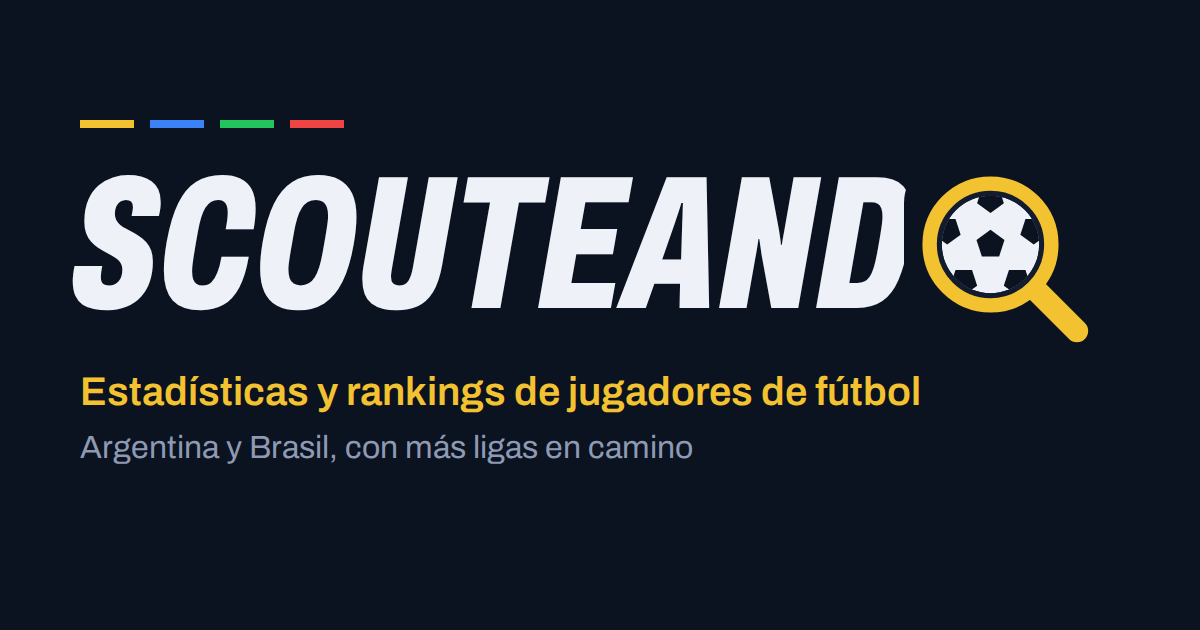
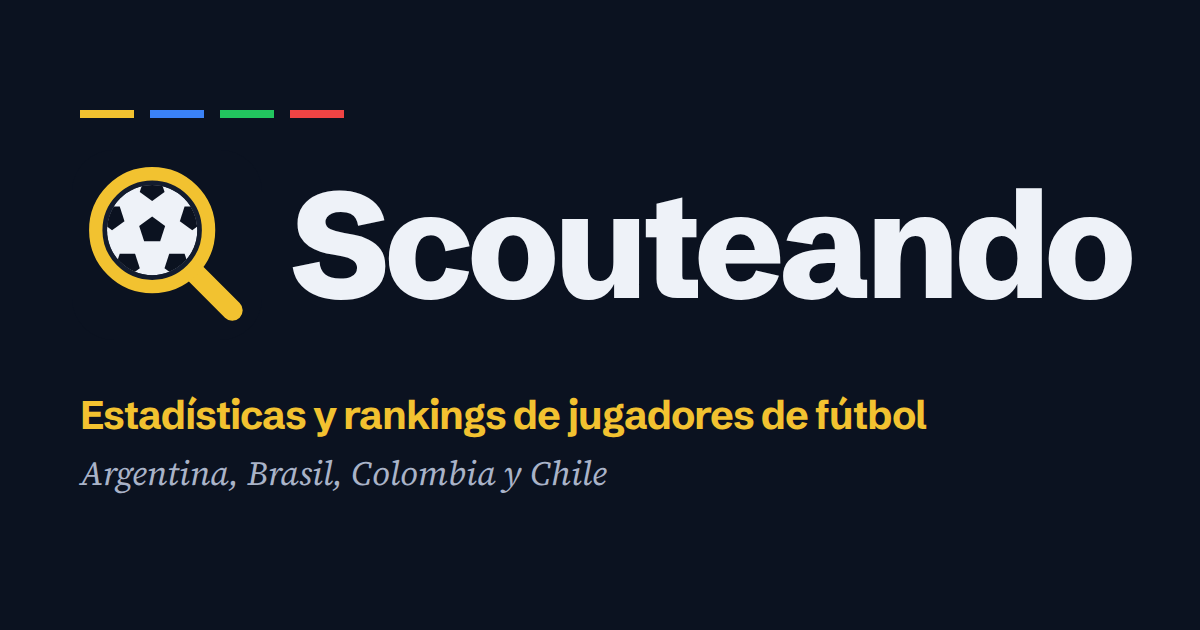
Tipografía estilo diario deportivo: Schibsted Grotesk + Source Serif 4 itálica, sin mayúsculas ni itálica forzadas
Claude-Session: https://claude.ai/code/session_01X9n3VzNKimX2K5r9hQWrKL

Changed region(s): [[0.0617, 0.2413, 0.9558, 0.5429], [0.0617, 0.6032, 0.7708, 0.7841], [0.0617, 0.1508, 0.3083, 0.2111]]

diff --git a/estilos.css b/estilos.css
@@ -13,8 +13,9 @@
   --med: #10b981;
   --del: #ef4444;
 
-  --fuente-titulo: "Archivo", "Arial Narrow", sans-serif;
-  --fuente-texto: "Archivo", Arial, sans-serif;
+  --fuente-titulo: "Schibsted Grotesk", "Helvetica Neue", Arial, sans-serif;
+  --fuente-serif: "Source Serif 4", Georgia, serif;
+  --fuente-texto: "Schibsted Grotesk", "Helvetica Neue", Arial, sans-serif;
 }
 
 * {
@@ -37,7 +38,7 @@ body {
 }
 
 .cabecera h1 {
-  font-family: var(--fuente-titulo); font-stretch: 62%; font-style: italic;
+  font-family: var(--fuente-titulo);
   font-size: 64px;
   font-weight: 800;
   letter-spacing: 0;
@@ -170,7 +171,7 @@ body {
 }
 
 .carta__rating {
-  font-family: var(--fuente-titulo); font-stretch: 62%; font-weight: 800; font-style: italic;
+  font-family: var(--fuente-titulo); font-weight: 800;
   font-size: 52px;
   line-height: 0.9;
   color: var(--color);
@@ -196,7 +197,7 @@ body {
   border: 2px solid var(--color);
   display: grid;
   place-items: center;
-  font-family: var(--fuente-titulo); font-stretch: 62%; font-weight: 800; font-style: italic;
+  font-family: var(--fuente-titulo); font-weight: 800;
   font-size: 24px;
   color: var(--texto);
   background: #1b2740;
@@ -213,7 +214,7 @@ body {
 }
 
 .carta__nombre {
-  font-family: var(--fuente-titulo); font-stretch: 62%; font-style: italic;
+  font-family: var(--fuente-titulo);
   font-weight: 800;
   font-size: 30px;
   letter-spacing: 0;
@@ -249,7 +250,7 @@ body {
 
 .stat__valor {
   display: block;
-  font-family: var(--fuente-titulo); font-stretch: 62%; font-weight: 800; font-style: italic;
+  font-family: var(--fuente-titulo); font-weight: 800;
   font-size: 28px;
   line-height: 1;
 }
@@ -258,7 +259,6 @@ body {
   display: block;
   font-size: 11px;
   color: var(--texto-suave);
-  text-transform: uppercase;
   letter-spacing: 0.5px;
   margin-top: 4px;
 }
@@ -372,7 +372,6 @@ body {
   display: block;
   font-size: 11px;
   color: var(--texto-suave);
-  text-transform: uppercase;
   letter-spacing: 0.5px;
   margin-top: 4px;
   max-width: 120px;
@@ -387,7 +386,7 @@ body {
 /* Título de cada grupo de puesto dentro del plantel */
 .grupo {
   grid-column: 1 / -1;
-  font-family: var(--fuente-titulo); font-stretch: 62%; font-style: italic;
+  font-family: var(--fuente-titulo);
   font-weight: 800;
   font-size: 28px;
   letter-spacing: 0;
@@ -463,7 +462,7 @@ body {
 .ficha__cabecera .carta__nombre { margin-top: 0; }
 
 .ficha__nombre {
-  font-family: var(--fuente-titulo); font-stretch: 62%; font-style: italic;
+  font-family: var(--fuente-titulo);
   font-weight: 800;
   font-size: 40px;
   letter-spacing: 0;
@@ -487,7 +486,7 @@ body {
 }
 .cuadro__valor {
   display: block;
-  font-family: var(--fuente-titulo); font-stretch: 62%; font-weight: 800; font-style: italic;
+  font-family: var(--fuente-titulo); font-weight: 800;
   font-size: 34px;
   line-height: 1;
 }
@@ -495,14 +494,12 @@ body {
   display: block;
   font-size: 11px;
   color: var(--texto-suave);
-  text-transform: uppercase;
   letter-spacing: 0.5px;
   margin-top: 4px;
 }
 
 .ficha__subtitulo {
   font-size: 13px;
-  text-transform: uppercase;
   letter-spacing: 1px;
   color: var(--texto-suave);
   margin: 0 0 12px;
@@ -568,7 +565,7 @@ body {
 }
 
 .tabla-lideres h2 {
-  font-family: var(--fuente-titulo); font-stretch: 62%; font-style: italic;
+  font-family: var(--fuente-titulo);
   font-weight: 800;
   font-size: 26px;
   letter-spacing: 0;
@@ -638,7 +635,7 @@ body {
 }
 
 .lider__valor {
-  font-family: var(--fuente-titulo); font-stretch: 62%; font-weight: 800; font-style: italic;
+  font-family: var(--fuente-titulo); font-weight: 800;
   font-size: 24px;
 }
 
@@ -693,8 +690,8 @@ body {
 .resumen-equipo .lider { grid-template-columns: 44px 1fr; border-bottom: 1px solid var(--borde); }
 .resumen-equipo .lider__foto { width: 44px; height: 44px; }
 .destacado--total { display: flex; flex-direction: column; justify-content: center; }
-.destacado__valor { font-family: var(--fuente-titulo); font-stretch: 62%; font-weight: 800; font-style: italic; font-size: 40px; line-height: 1; color: var(--dorado); }
-.destacado__rol { font-size: 11px; color: var(--texto-suave); text-transform: uppercase; letter-spacing: 0.5px; }
+.destacado__valor { font-family: var(--fuente-titulo); font-weight: 800; font-size: 40px; line-height: 1; color: var(--dorado); }
+.destacado__rol { font-size: 11px; color: var(--texto-suave); letter-spacing: 0.5px; }
 
 .perfil__top small { font-size: 10px; font-weight: 400; color: var(--texto-suave); }
 
@@ -722,23 +719,22 @@ body {
 }
 .liga:hover:not(:disabled) { transform: translateY(-3px); border-color: var(--dorado); }
 .liga__bandera { width: 48px; height: 32px; object-fit: cover; border-radius: 4px; margin-bottom: 10px; }
-.liga__nombre { font-family: var(--fuente-titulo); font-stretch: 62%; font-weight: 800; font-style: italic; font-size: 28px; letter-spacing: 0; line-height: 1.05; }
+.liga__nombre { font-family: var(--fuente-titulo); font-weight: 800; font-size: 28px; letter-spacing: 0; line-height: 1.05; }
 .liga__pais { font-size: 13px; color: var(--texto-suave); }
-.liga__estado { font-size: 11px; color: var(--dorado); margin-top: 8px; text-transform: uppercase; letter-spacing: 0.5px; }
+.liga__estado { font-size: 11px; color: var(--dorado); margin-top: 8px; letter-spacing: 0.5px; }
 .liga--pronto { opacity: 0.45; cursor: default; }
 .liga--pronto .liga__estado { color: var(--texto-suave); }
 
 .perfil__valor small { font-size: 11px; font-weight: 400; color: var(--texto-suave); }
 
-/* ===== Tipografía (Archivo: angosta e itálica en títulos y números, normal en el texto) ===== */
+/* ===== Tamaños de tipografía ===== */
 body { font-size: 15px; -webkit-font-smoothing: antialiased; }
 
 .cabecera h1, .ficha__nombre, .liga__nombre, .equipo__nombre, .grupo, .tabla-lideres h2 {
   font-weight: 700;
   letter-spacing: 0.5px;
-  text-transform: uppercase;
 }
-.cabecera h1 { font-size: clamp(38px, 10vw, 60px); overflow-wrap: anywhere; }
+.cabecera h1 { font-size: clamp(36px, 9vw, 56px); overflow-wrap: anywhere; letter-spacing: -1.5px; line-height: 1.02; }
 
 .carta__nombre {
   font-weight: 600;
@@ -749,14 +745,14 @@ body { font-size: 15px; -webkit-font-smoothing: antialiased; }
 
 /* Números: ancho fijo para que se alineen */
 .carta__rating, .stat__valor, .cuadro__valor, .lider__valor, .destacado__valor, .perfil__valor, .perfil__top {
-  font-family: var(--fuente-titulo); font-stretch: 62%; font-style: italic;
+  font-family: var(--fuente-titulo);
   font-weight: 800;
   font-variant-numeric: tabular-nums;
 }
 .carta__rating { font-size: 54px; }
 .stat__valor { font-size: 26px; }
 .lider__valor { font-size: 26px; }
-.equipo__nombre { font-family: var(--fuente-titulo); font-stretch: 62%; font-weight: 800; font-style: italic; font-size: 17px; }
+.equipo__nombre { font-family: var(--fuente-titulo); font-weight: 800; font-size: 17px; }
 
 .perfil__top { font-size: 20px; line-height: 1; }
 .perfil__top small { font-family: var(--fuente-texto); font-size: 11px; font-weight: 500; color: var(--texto-suave); }
@@ -767,7 +763,6 @@ body { font-size: 15px; -webkit-font-smoothing: antialiased; }
   margin-top: 4px;
   font-size: 10px;
   font-weight: 700;
-  text-transform: uppercase;
   letter-spacing: 0.5px;
   padding: 2px 7px;
   border-radius: 999px;
@@ -800,14 +795,14 @@ body { font-size: 15px; -webkit-font-smoothing: antialiased; }
 .comp__cabeza { display: grid; grid-template-columns: 1fr auto 1fr; align-items: center; gap: 10px; text-align: center; margin: 10px 0 14px; }
 .comp__jugador { display: flex; flex-direction: column; align-items: center; gap: 6px; }
 .comp__jugador .ficha__foto { width: 84px; height: 84px; margin: 0; }
-.comp__jugador h3 { font-family: var(--fuente-titulo); font-stretch: 62%; font-style: italic; font-size: 24px; font-weight: 700; text-transform: uppercase; margin: 0; line-height: 1; }
+.comp__jugador h3 { font-family: var(--fuente-titulo); font-size: 24px; font-weight: 700; margin: 0; line-height: 1; }
 .comp__jugador .carta__info { margin: 0; }
-.comp__vs { font-family: var(--fuente-titulo); font-stretch: 62%; font-style: italic; font-size: 28px; color: var(--dorado); font-weight: 700; }
-.comp__marcador { text-align: center; font-size: 12px; color: var(--texto-suave); margin-bottom: 10px; text-transform: uppercase; letter-spacing: 0.5px; }
-.comp__marcador span { font-family: var(--fuente-titulo); font-stretch: 62%; font-weight: 800; font-style: italic; font-size: 26px; color: var(--texto); margin: 0 10px; vertical-align: middle; }
+.comp__vs { font-family: var(--fuente-titulo); font-size: 28px; color: var(--dorado); font-weight: 700; }
+.comp__marcador { text-align: center; font-size: 12px; color: var(--texto-suave); margin-bottom: 10px; letter-spacing: 0.5px; }
+.comp__marcador span { font-family: var(--fuente-titulo); font-weight: 800; font-size: 26px; color: var(--texto); margin: 0 10px; vertical-align: middle; }
 .comp__fila { display: grid; grid-template-columns: 80px 1fr 80px; align-items: center; padding: 8px 0; border-bottom: 1px solid #1c2740; }
 .comp__nombre { text-align: center; font-size: 13px; color: var(--texto-suave); }
-.comp__valor { font-family: var(--fuente-titulo); font-stretch: 62%; font-style: italic; font-size: 22px; font-weight: 800; text-align: center; font-variant-numeric: tabular-nums; color: var(--texto-suave); }
+.comp__valor { font-family: var(--fuente-titulo); font-size: 22px; font-weight: 800; text-align: center; font-variant-numeric: tabular-nums; color: var(--texto-suave); }
 .comp__valor--mejor { color: #34d399; }
 .comp__volver { margin-top: 12px; }
 #filtrosLideres { gap: 8px; }
@@ -835,13 +830,13 @@ body { font-size: 15px; -webkit-font-smoothing: antialiased; }
 .vista-posiciones > .filtros { margin-bottom: 18px; }
 .posiciones { display: grid; grid-template-columns: repeat(auto-fit, minmax(460px, 1fr)); gap: 18px; }
 .tabla-posiciones { background: var(--superficie); border: 1px solid var(--borde); border-radius: 14px; padding: 14px 16px; overflow-x: auto; }
-.tabla-posiciones h2 { font-family: var(--fuente-titulo); font-stretch: 62%; font-style: italic; font-weight: 700; text-transform: uppercase; color: var(--dorado); font-size: 24px; margin: 0 0 8px; }
+.tabla-posiciones h2 { font-family: var(--fuente-titulo); font-weight: 700; color: var(--dorado); font-size: 24px; margin: 0 0 8px; }
 .tabla-posiciones table { width: 100%; border-collapse: collapse; font-variant-numeric: tabular-nums; }
 .tabla-posiciones th { font-size: 11px; text-transform: uppercase; color: var(--texto-suave); font-weight: 600; padding: 6px 4px; border-bottom: 1px solid var(--borde); text-align: center; }
 .tabla-posiciones td { font-size: 14px; font-weight: 400; padding: 7px 4px; border-bottom: 1px solid #1c2740; text-align: center; }
 .tabla-posiciones th:nth-child(2), .tabla-posiciones td.equipo-celda { text-align: left; }
 .tabla-posiciones td.pos { color: var(--texto-suave); width: 26px; }
-.tabla-posiciones td.pts { font-family: var(--fuente-titulo); font-stretch: 62%; font-style: italic; font-size: 18px; font-weight: 700; }
+.tabla-posiciones td.pts { font-family: var(--fuente-titulo); font-size: 18px; font-weight: 700; }
 .tabla-posiciones .carta__equipo { border-bottom: none; font-weight: 600; }
 .forma { display: inline-block; width: 18px; height: 18px; line-height: 18px; border-radius: 4px; font-size: 10px; font-weight: 700; margin: 0 1px; color: #0b1220; }
 .forma--G { background: #34d399; }
@@ -880,8 +875,8 @@ body { font-size: 15px; -webkit-font-smoothing: antialiased; }
 
 /* ===== Acerca de ===== */
 .pie__link { background: none; border: none; padding: 0; color: var(--dorado); font: inherit; cursor: pointer; text-decoration: underline; }
-.acerca h2 { font-family: var(--fuente-titulo); font-stretch: 62%; font-weight: 800; font-style: italic; font-size: 34px; text-transform: uppercase; margin: 0 0 12px; }
-.acerca h3 { font-family: var(--fuente-titulo); font-stretch: 62%; font-weight: 800; font-style: italic; font-size: 18px; text-transform: uppercase; letter-spacing: 0; color: var(--dorado); margin: 20px 0 6px; }
+.acerca h2 { font-family: var(--fuente-titulo); font-weight: 800; font-size: 34px; margin: 0 0 12px; }
+.acerca h3 { font-family: var(--fuente-titulo); font-weight: 800; font-size: 18px; letter-spacing: 0; color: var(--dorado); margin: 20px 0 6px; }
 .acerca p, .acerca li { line-height: 1.55; color: var(--texto); }
 .acerca ul { padding-left: 18px; margin: 0; }
 .acerca__nota { font-size: 13px; color: var(--texto-suave) !important; margin-top: 18px; }
@@ -892,7 +887,7 @@ body { font-size: 15px; -webkit-font-smoothing: antialiased; }
 .marca .cabecera__liga { margin: 0; }
 
 /* Textos chicos dentro de números grandes: letra normal para que se lean bien */
-.perfil__valor small, .stat__nombre, .lider__nombre small { font-family: var(--fuente-texto); font-style: normal; font-stretch: 100%; font-weight: 400; }
+.perfil__valor small, .stat__nombre, .lider__nombre small { font-family: var(--fuente-texto); font-weight: 400; }
 
 /* ===== Ficha: botones Seguir y Compartir ===== */
 .ficha__acciones { display: flex; flex-wrap: wrap; gap: 8px; }
@@ -934,7 +929,7 @@ body { font-size: 15px; -webkit-font-smoothing: antialiased; }
 
 /* ===== Ficha: parecidos y notas ===== */
 .parecidos__lista { margin: 0; }
-.parecidos__valor { margin-left: auto; font-family: var(--fuente-titulo); font-stretch: 62%; font-style: italic; font-weight: 800; font-size: 22px; color: var(--dorado); }
+.parecidos__valor { margin-left: auto; font-family: var(--fuente-titulo); font-weight: 800; font-size: 22px; color: var(--dorado); }
 .nota-scouting { margin-top: 8px; }
 .nota-scouting__etiquetas { display: flex; flex-wrap: wrap; gap: 8px; margin-bottom: 10px; }
 .nota-scouting__texto { width: 100%; box-sizing: border-box; resize: vertical; line-height: 1.5; font-family: var(--fuente-texto); }
@@ -1006,11 +1001,11 @@ body { font-size: 15px; -webkit-font-smoothing: antialiased; }
 .jugador-dia { grid-column: 1 / -1; display: grid; grid-template-columns: auto 1fr; grid-template-areas: "foto etiqueta" "foto nombre" "foto info" "foto numeros"; column-gap: 16px; row-gap: 2px; align-items: center; text-align: left; background: linear-gradient(120deg, rgba(242,194,48,.14), transparent 60%), var(--superficie); border: 1px solid var(--dorado); border-radius: 16px; padding: 16px 18px; color: var(--texto); font-family: var(--fuente-texto); cursor: pointer; }
 .jugador-dia__etiqueta { grid-area: etiqueta; font-size: 13px; font-weight: 700; color: var(--dorado); }
 .jugador-dia__foto { grid-area: foto; width: 76px; height: 76px; margin: 0; }
-.jugador-dia__nombre { grid-area: nombre; font-family: var(--fuente-titulo); font-stretch: 62%; font-style: italic; font-weight: 800; font-size: 34px; line-height: 1; text-transform: uppercase; }
+.jugador-dia__nombre { grid-area: nombre; font-family: var(--fuente-titulo); font-weight: 800; font-size: 34px; line-height: 1; }
 .jugador-dia__info { grid-area: info; font-size: 13px; color: var(--texto-suave); display: flex; align-items: center; gap: 4px; flex-wrap: wrap; }
 .jugador-dia__numeros { grid-area: numeros; font-size: 14px; font-weight: 600; }
 .novedades { grid-column: 1 / -1; background: var(--superficie); border: 1px solid var(--borde); border-radius: 14px; padding: 14px 16px; }
-.novedades h2 { font-family: var(--fuente-titulo); font-stretch: 62%; font-style: italic; font-weight: 800; text-transform: uppercase; color: var(--dorado); font-size: 24px; margin: 0 0 8px; }
+.novedades h2 { font-family: var(--fuente-titulo); font-weight: 800; color: var(--dorado); font-size: 24px; margin: 0 0 8px; }
 .novedades ul { margin: 0; padding: 0; list-style: none; display: grid; gap: 6px; font-size: 14px; }
 .novedades__fecha { color: var(--texto-suave); font-variant-numeric: tabular-nums; margin-right: 6px; }
 
@@ -1032,3 +1027,12 @@ body { font-size: 15px; -webkit-font-smoothing: antialiased; }
 .fuerte--elite { background: rgba(242, 194, 48, .18); color: var(--dorado); }
 .destacados__bloque .lider { grid-template-columns: 36px minmax(0, 1fr) auto; }
 .destacados__bloque .lider__nombre { min-width: 0; }
+
+/* ===== Tipografía "Diario deportivo" =====
+   Schibsted Grotesk (gruesa y apretada) para títulos y datos; Source Serif 4 en itálica para bajadas y notas, como un diario. */
+.cabecera h1, .ficha__nombre, .liga__nombre, .grupo, .tabla-lideres h2, .tabla-posiciones h2, .acerca h2, .jugador-dia__nombre, .carta__nombre, .equipo__nombre, .comp__jugador h3 { font-weight: 800; letter-spacing: -0.03em; }
+.tabla-lideres h2, .tabla-posiciones h2, .grupo { font-size: 22px; }
+.stat__valor, .cuadro__valor, .lider__valor, .perfil__valor, .perfil__top, .destacado__valor, .parecidos__valor { font-weight: 800; letter-spacing: -0.02em; }
+.cabecera__sub, .ficha__nota, .destacados__nota, .tabla-lideres__nota, .ranking-equipos__ayuda, .ligas__proximas, .acerca__nota { font-family: var(--fuente-serif); font-style: italic; }
+.cabecera__sub { font-size: 17px; }
+.ficha__subtitulo, .cuadro__nombre, .carta__puesto, .liga__estado, .comp__marcador { letter-spacing: 0; }

diff --git a/index.html b/index.html
@@ -21,12 +21,12 @@
   <meta name="apple-mobile-web-app-capable" content="yes">
   <meta name="apple-mobile-web-app-title" content="Scouteando">
 
-  <!-- Tipografía de Google Fonts: Archivo (angosta e itálica en títulos y números, normal en el texto) -->
+  <!-- Tipografía de Google Fonts: Schibsted Grotesk (títulos, datos y texto) y Source Serif 4 en itálica (bajadas y notas) -->
   <link rel="preconnect" href="https://fonts.googleapis.com">
   <link rel="preconnect" href="https://fonts.gstatic.com" crossorigin>
-  <link href="https://fonts.googleapis.com/css2?family=Archivo:ital,wdth,wght@0,62..125,400..800;1,62..125,400..800&display=swap" rel="stylesheet">
+  <link href="https://fonts.googleapis.com/css2?family=Schibsted+Grotesk:wght@400..800&family=Source+Serif+4:ital,wght@1,400&display=swap" rel="stylesheet">
 
-  <link rel="stylesheet" href="estilos.css?v=38">
+  <link rel="stylesheet" href="estilos.css?v=39">
 </head>
 <body>
 
@@ -152,8 +152,8 @@
   <!-- Aviso mientras se cargan los datos de una liga -->
   <div class="cargando" id="cargando" role="status" hidden></div>
 
-  <script src="datos/generados/portada.js?v=38"></script>
-  <script src="ligas.js?v=38"></script>
-  <script src="app.js?v=38"></script>
+  <script src="datos/generados/portada.js?v=39"></script>
+  <script src="ligas.js?v=39"></script>
+  <script src="app.js?v=39"></script>
 </body>
 </html>
